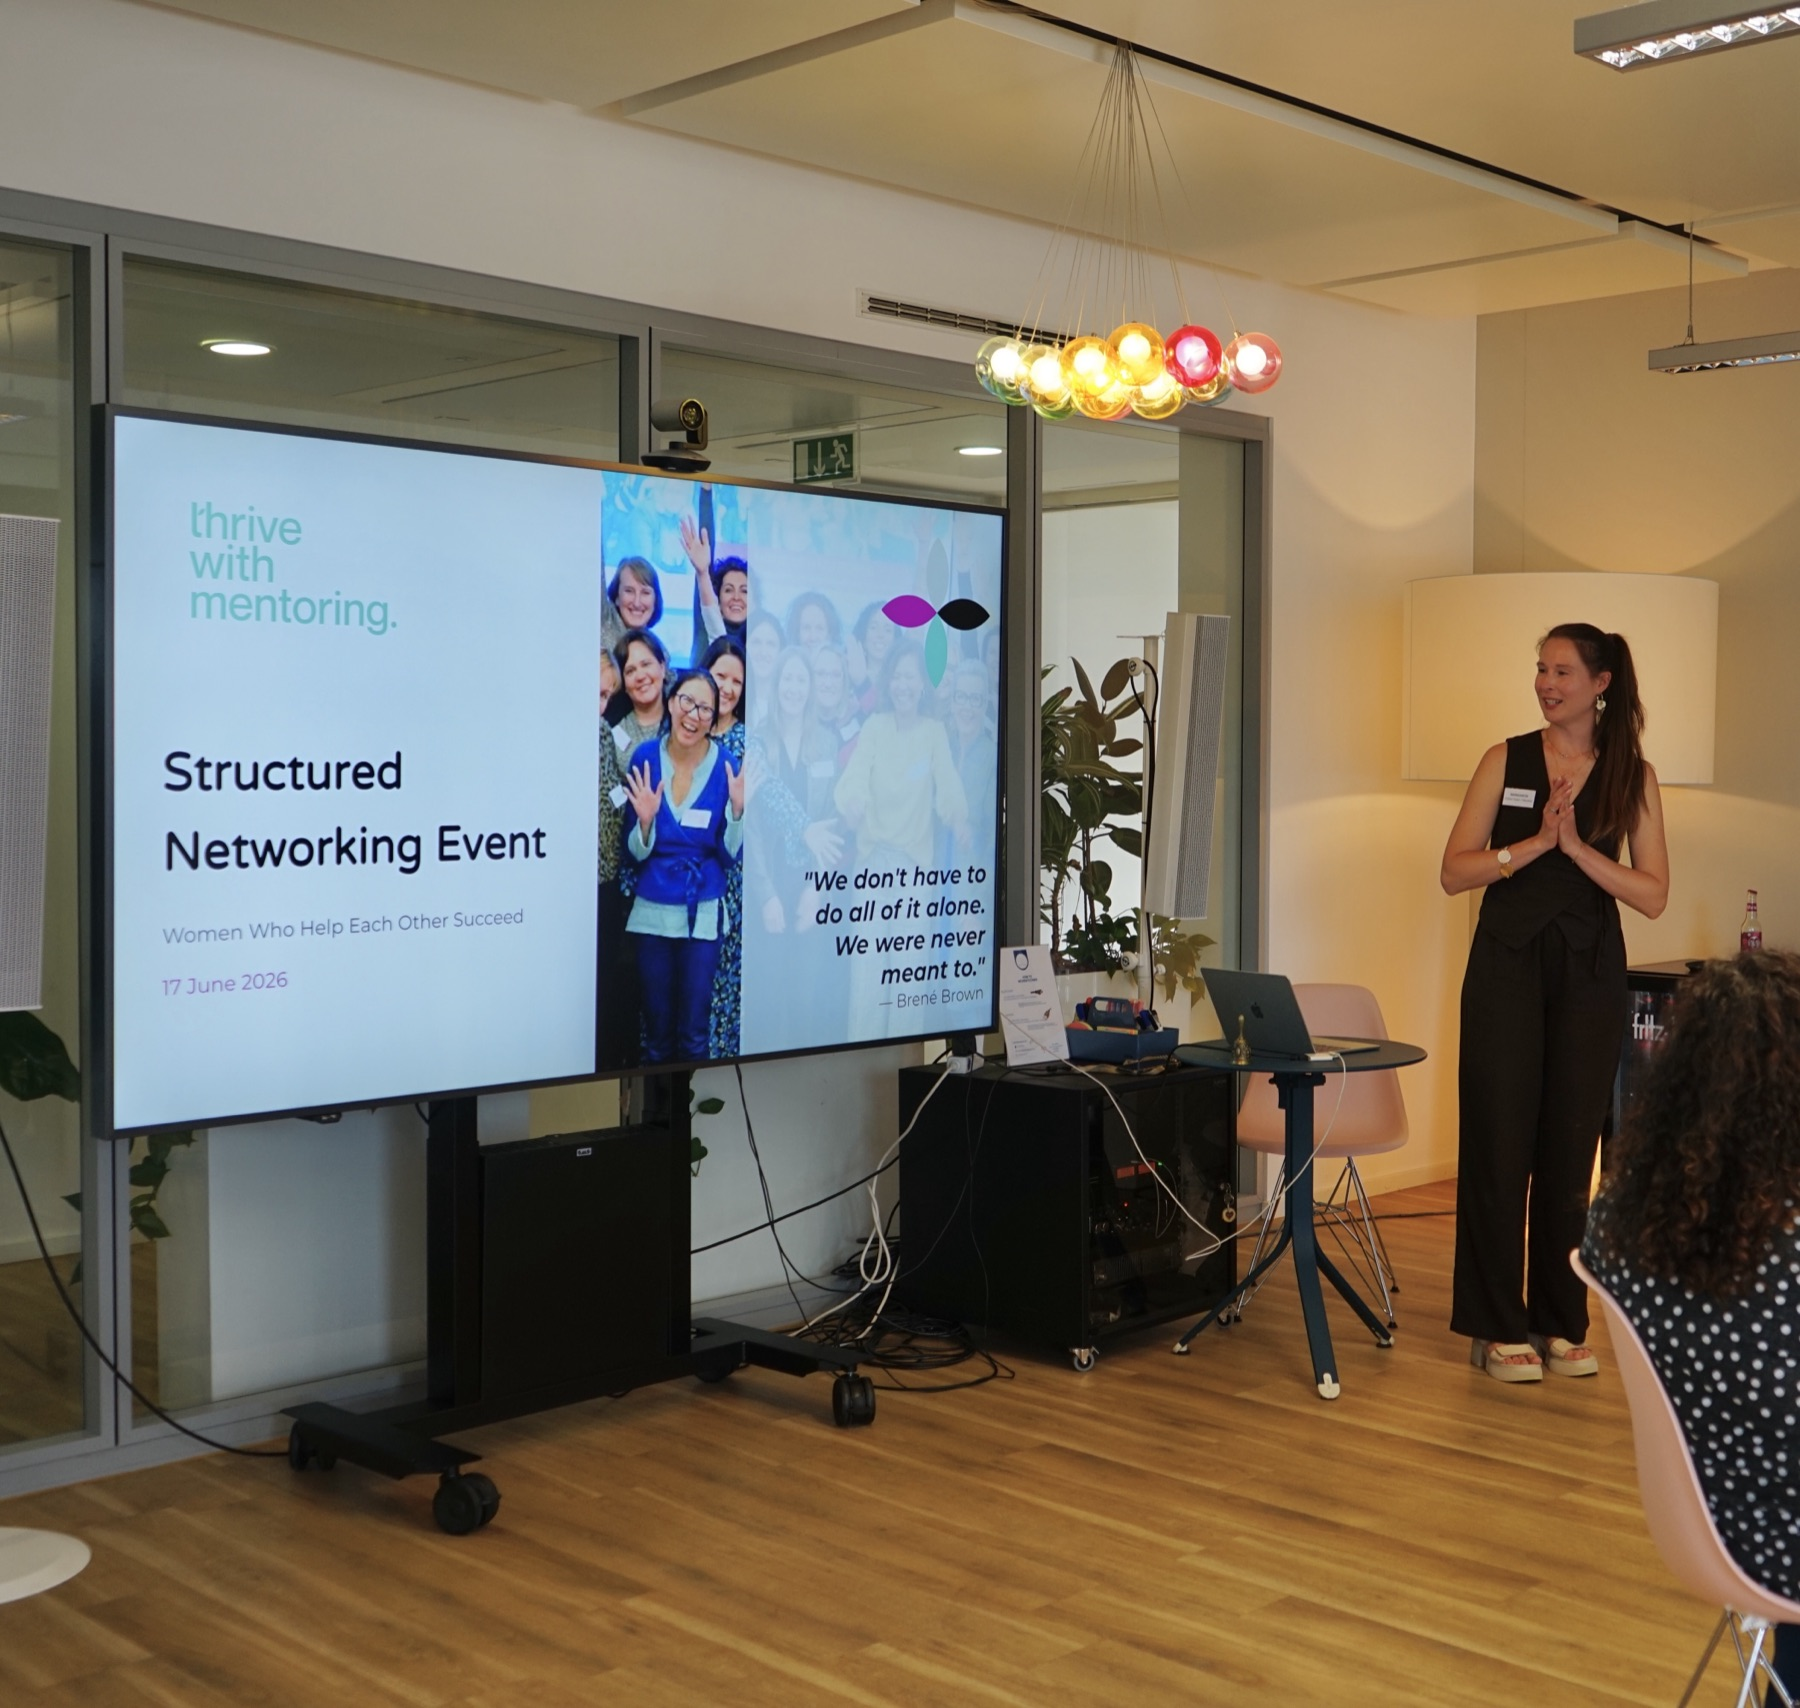
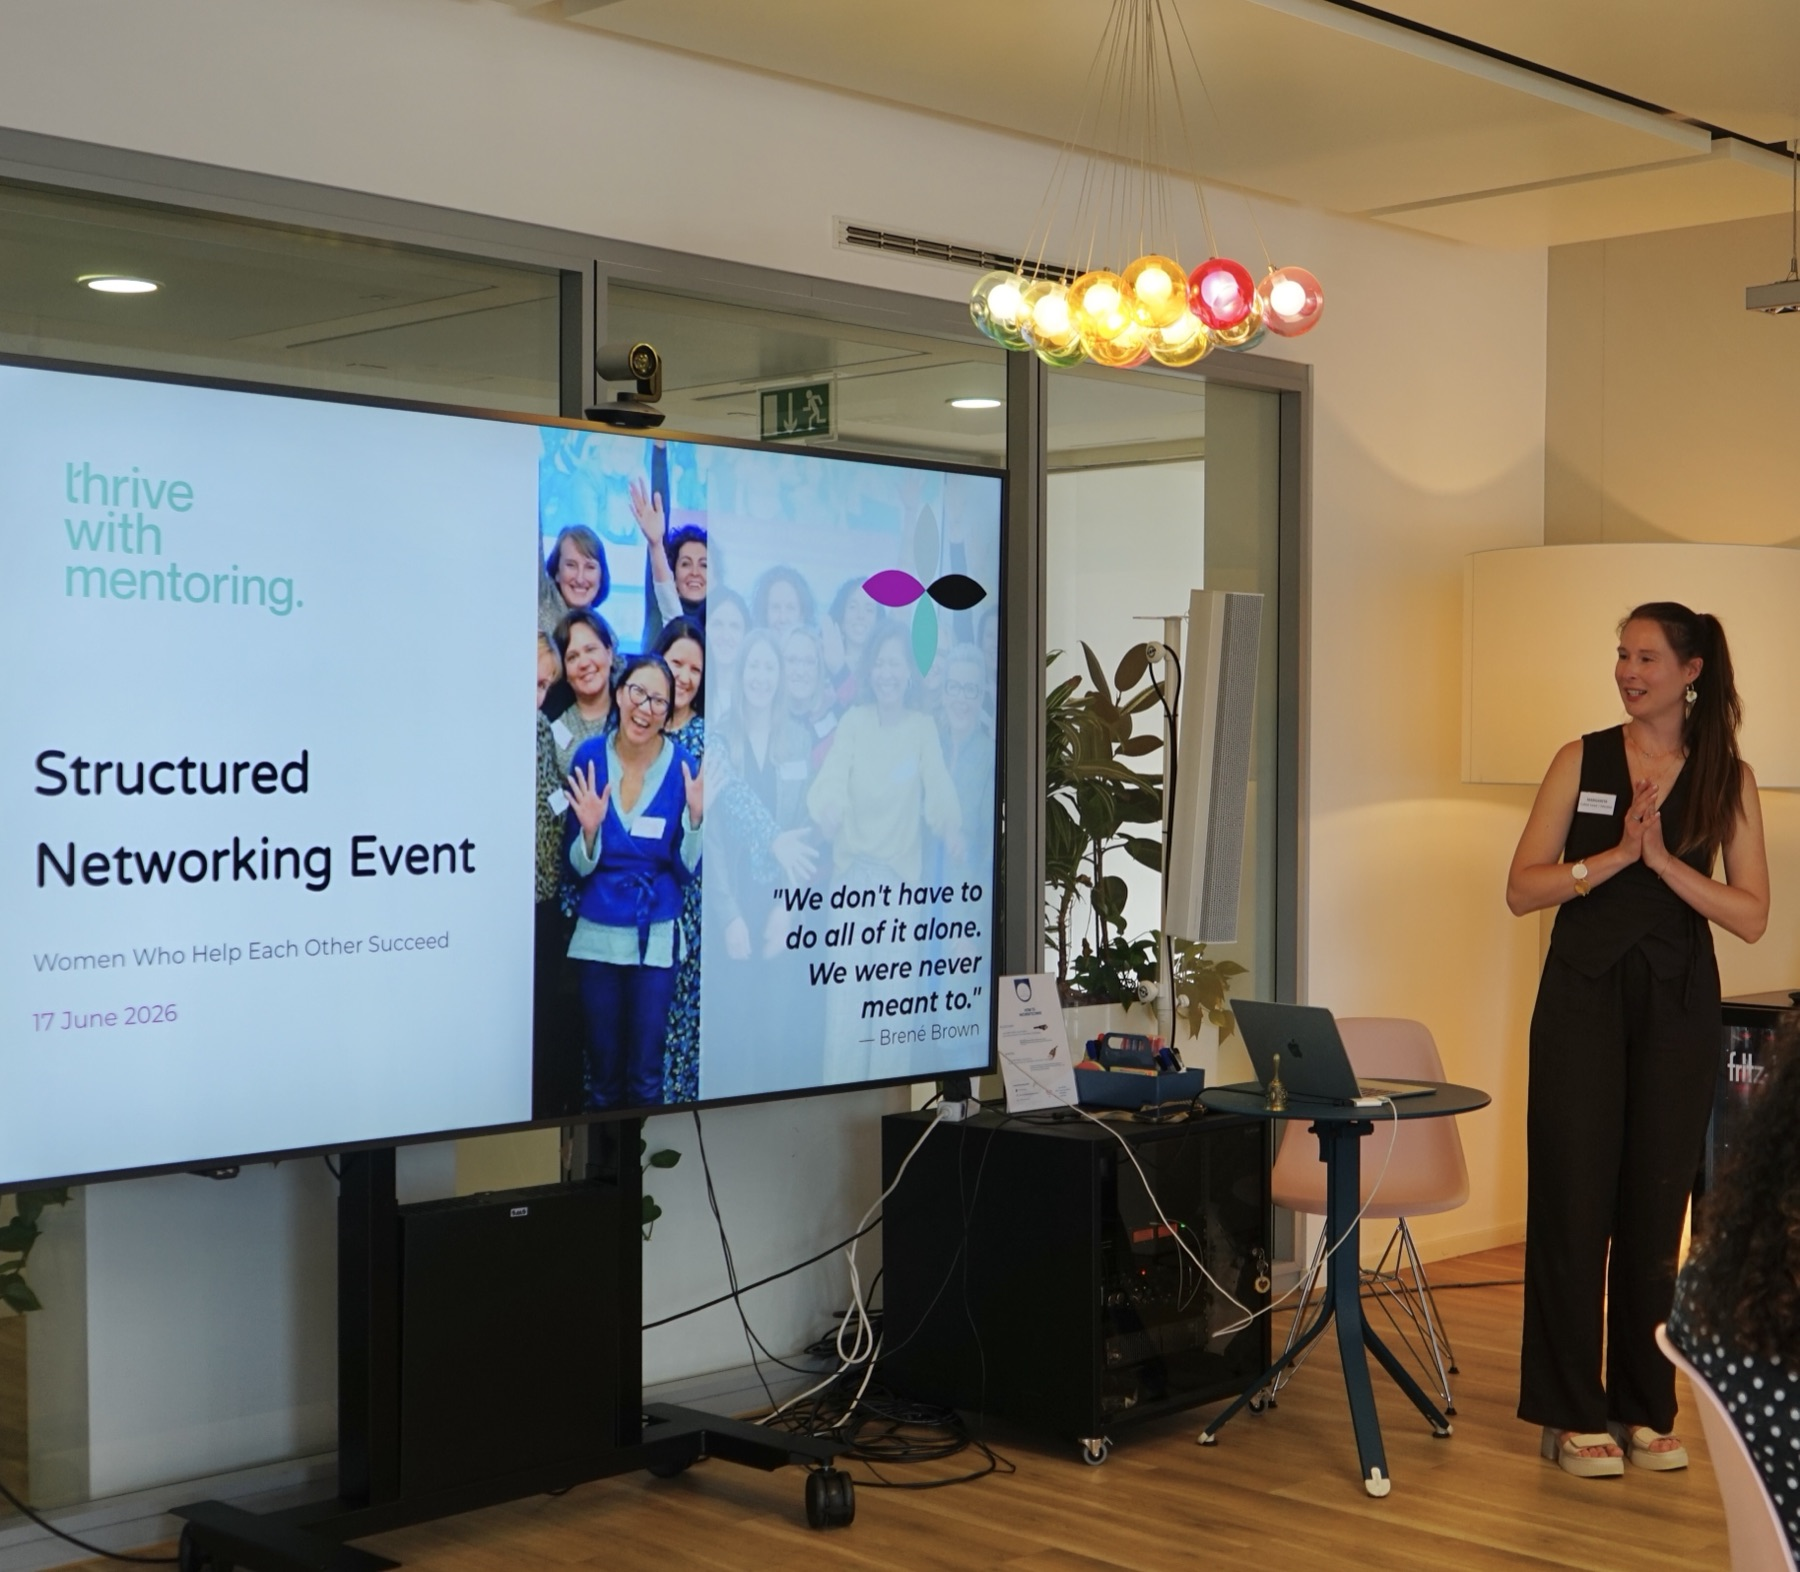
Swap hero layout to image-left/text-right, update hero photo
Puts the photo on the left and "You don't have to figure it all out
alone." text on the right (photo now also appears above the text on
mobile, matching the reordered DOM). Also swaps in a better crop of
the same presenting photo — the full "Structured Networking Event"
slide text is now legible and more of the room is visible.

diff --git a/app/(main)/mentoring/page.tsx b/app/(main)/mentoring/page.tsx
@@ -113,6 +113,19 @@ export default function MentoringPage() {
           </div>
 
           <div className="mt-12 grid lg:grid-cols-2 gap-12 lg:gap-16 lg:items-center">
+            <div className="relative lg:flex lg:items-center lg:justify-center">
+              <Image
+                src="/images/mentoring-hero-event.jpg"
+                alt="Margarita Dautova presenting at a Thrive with Mentoring Structured Networking Event, with the quote &ldquo;We don&apos;t have to do all of it alone. We were never meant to.&rdquo;"
+                width={1800}
+                height={1572}
+                className="w-full h-auto lg:w-auto lg:max-h-[366px] rounded-lg shadow-2xl"
+                priority
+                sizes="(min-width: 1024px) 45vw, 90vw"
+              />
+              <div className="hidden lg:block absolute -bottom-4 -left-4 w-32 h-32 bg-primary-100/30 rounded-full blur-3xl -z-10" />
+            </div>
+
             <div className="text-center lg:text-left">
               <div className="text-body-lg text-stone-600 max-w-xl mx-auto lg:mx-0 text-pretty">
                 <p>Sometimes, we get lucky with a manager.</p>
@@ -131,19 +144,6 @@ export default function MentoringPage() {
                   So how do you keep growing?
                 </p>
               </div>
-            </div>
-
-            <div className="relative lg:order-last lg:flex lg:items-center lg:justify-center">
-              <Image
-                src="/images/mentoring-hero-event.jpg"
-                alt="Margarita Dautova presenting at a Thrive with Mentoring Structured Networking Event, with the quote &ldquo;We don&apos;t have to do all of it alone. We were never meant to.&rdquo;"
-                width={1800}
-                height={1708}
-                className="w-full h-auto lg:w-auto lg:max-h-[366px] rounded-lg shadow-2xl"
-                priority
-                sizes="(min-width: 1024px) 45vw, 90vw"
-              />
-              <div className="hidden lg:block absolute -bottom-4 -right-4 w-32 h-32 bg-primary-100/30 rounded-full blur-3xl -z-10" />
             </div>
           </div>
         </Container>
